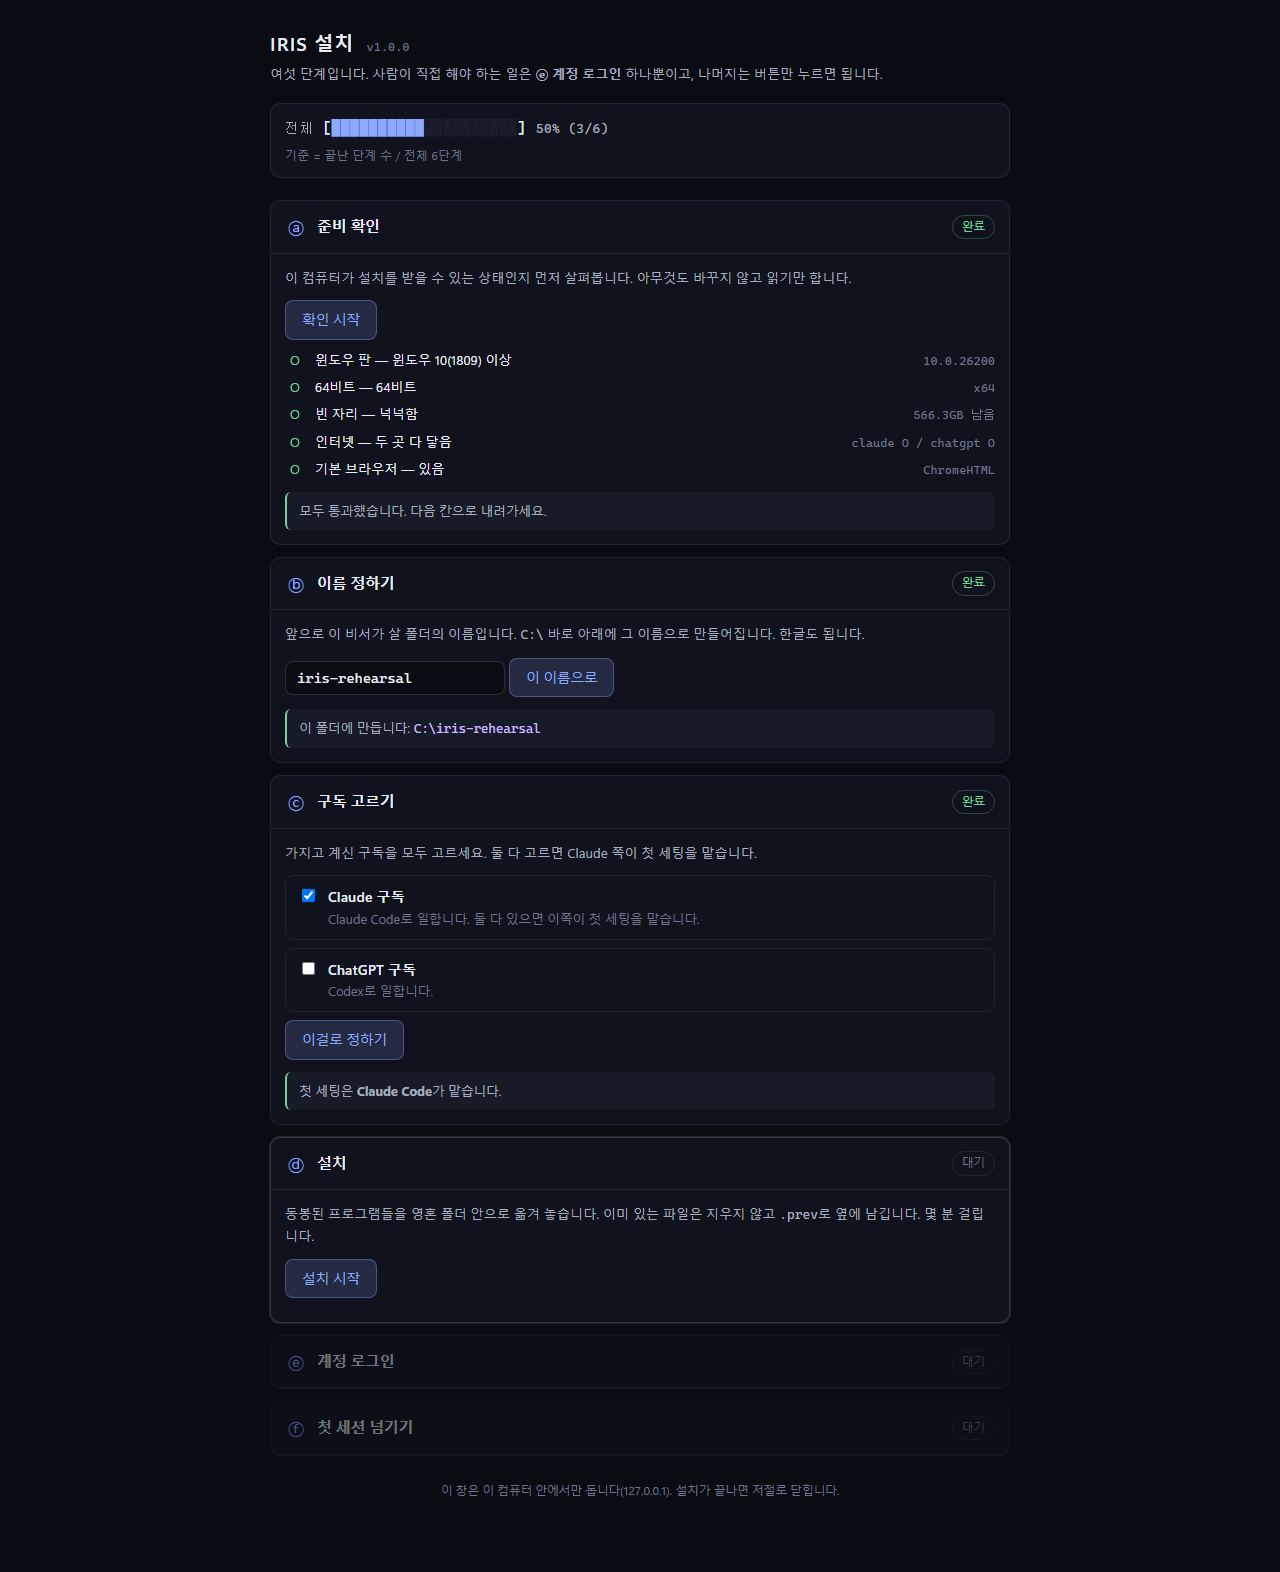
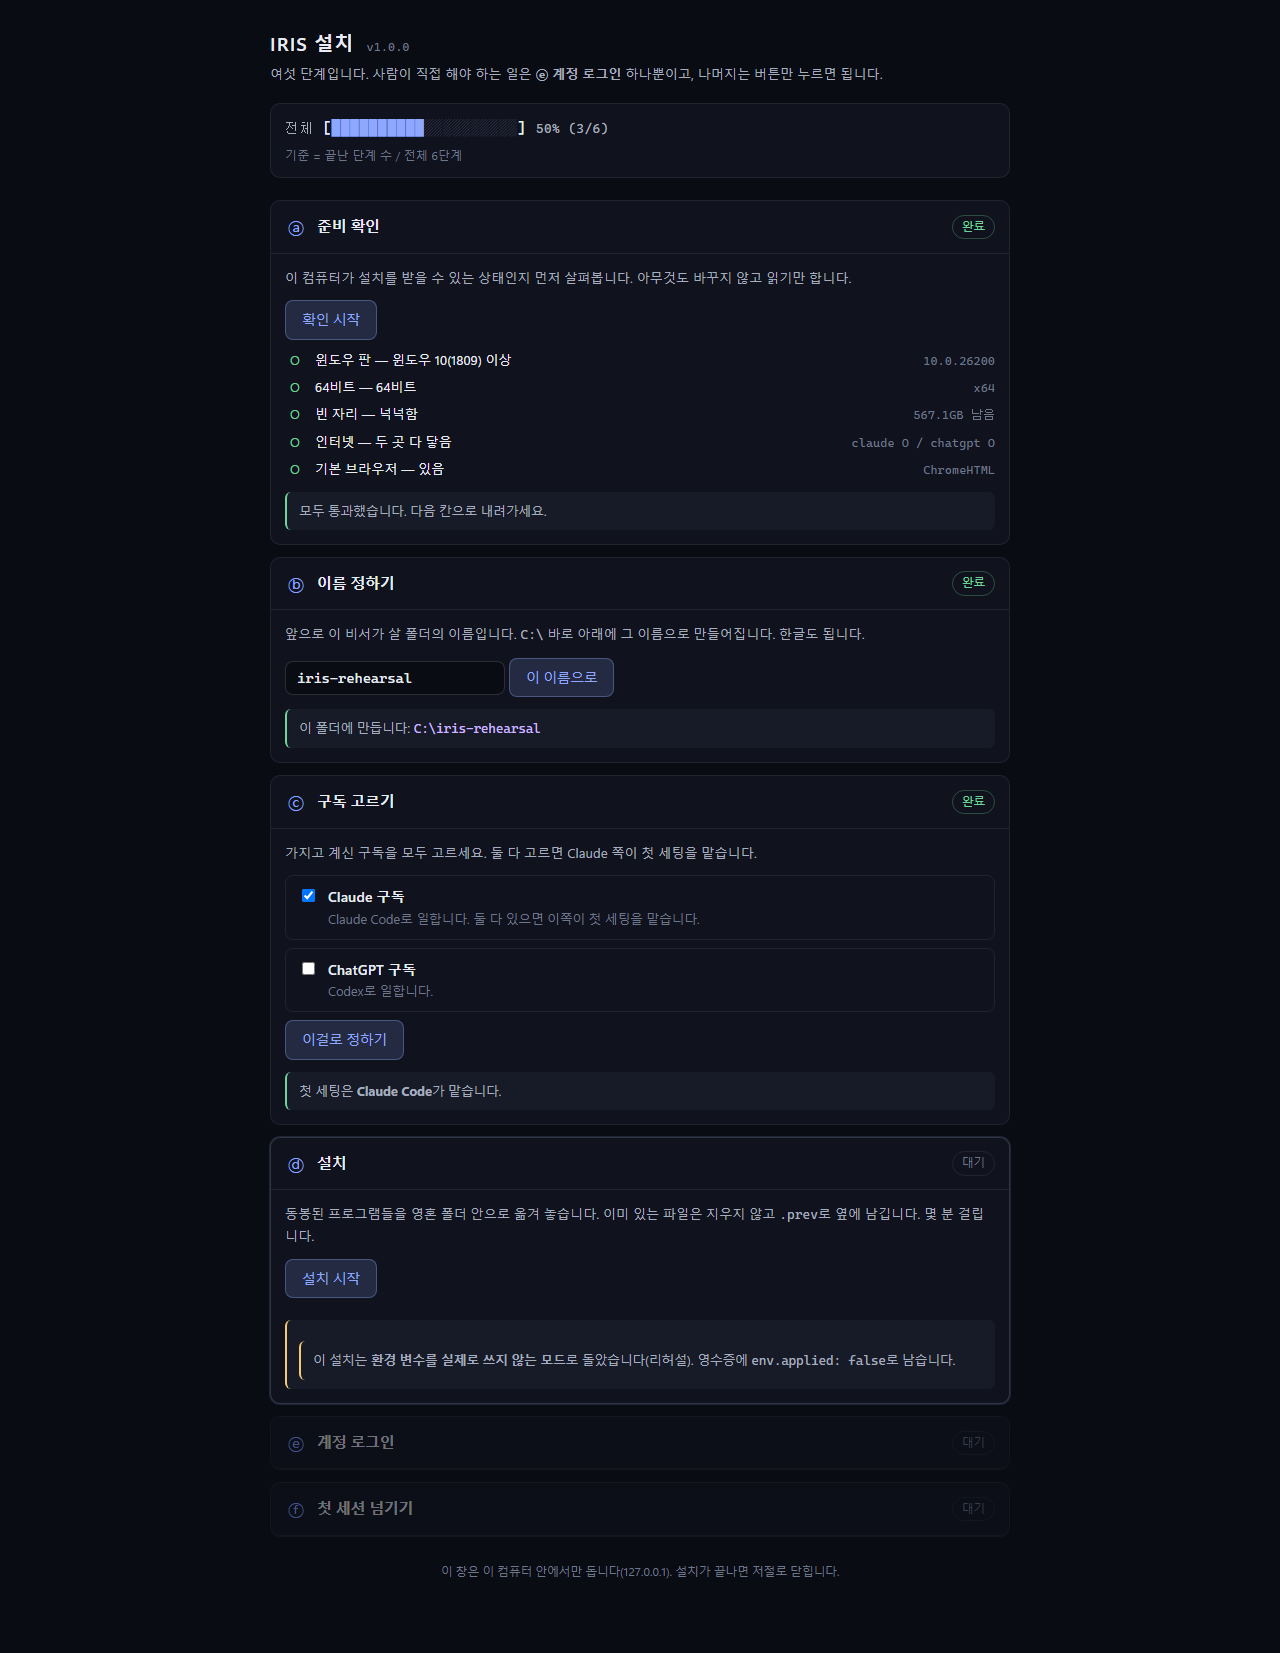
fix(installer): handoff ready check by soul cwd, install retry UI, receipt env.applied, guide edition strictness
Review fix round 1.

1. waitFaceReady counted the daemon's GLOBAL session total, so on a PC already
   running Face a stranger's session satisfied ">= 1" and the handoff was
   stamped done with no session in this soul. It now also reads
   GET /api/sessions and requires one whose cwd normalizes (slashes, trailing
   separator, case -- P02 launch.mjs's normCwd) to the soul root; the 60s
   budget is unchanged and a timeout reports what it saw.
2. index.html: an install failure left the button dead (the terminal error
   event carries a part name), and a refresh read step==='install' as "in
   progress" forever. One installRetry() path now covers every failure, the
   restore path honours state.installError, and an empty event buffer (server
   restarted) falls back to retry instead of a frozen spinner.
3. install() records receipt.env.applied (+ skippedReason) so a --no-user-env
   run can never be mistaken for a real install; the screen says so too.
4. resolveGuide no longer falls back to the other edition -- a missing guide
   fails as where:'first-request', reason guide-missing:<edition>, and Face is
   not launched.
5. <!doctype html> (the page was rendering in quirks mode).
6. Screens retaken with the final markup; the login card is captured
   in-progress and once showing [다시 열기] (simulated through injected status
   functions -- no proxy call, no CLI spawn, no real login).
7. Guarded relayError.reason, clamped the install pct to 0..100, dropped a
   no-op padStart.
[…]

diff --git a/installer/ui/index.html b/installer/ui/index.html
@@ -1,3 +1,4 @@
+<!doctype html>
 <meta charset="utf-8">
 <meta name="viewport" content="width=device-width, initial-scale=1">
 <title>IRIS 설치</title>
@@ -179,7 +180,7 @@ function drawBar() {
   $('bar').innerHTML =
     '<span class="bar-num">전체 </span>[<span class="bar-fill">' + '█'.repeat(filled) + '</span>' +
     '<span class="bar-rest">' + '░'.repeat(BAR_CELLS - filled) + '</span>] ' +
-    '<span class="bar-num">' + String(pct).padStart(3, ' ') + '%  (' + n + '/' + total + ')</span>';
+    '<span class="bar-num">' + pct + '%  (' + n + '/' + total + ')</span>';
 }
 
 function badge(step, text, cls) {
@@ -352,14 +353,28 @@ function renderInstall() {
 }
 
 function installProgressNote(pct) {
-  const filled = Math.floor((pct / 100) * BAR_CELLS);
-  return '<div class="mini">[<span class="bar-fill">' + '█'.repeat(filled) + '</span>' + '░'.repeat(BAR_CELLS - filled) + '] ' + Math.floor(pct) + '%</div>';
+  // pct는 서버가 주는 값이라 방어적으로 0~100으로 가둔다(음수·101이 오면 바가 깨진다).
+  const p = Math.min(100, Math.max(0, Math.floor(Number(pct) || 0)));
+  const filled = Math.floor((p / 100) * BAR_CELLS);
+  return '<div class="mini">[<span class="bar-fill">' + '█'.repeat(filled) + '</span>' + '░'.repeat(BAR_CELLS - filled) + '] ' + p + '%</div>';
+}
+
+// 설치 실패(또는 이어지지 않음)는 막다른 길이 아니다 — 서버는 state.installError만
+// 남기고 다시 POST /api/install 을 받아 준다. 그러니 화면도 반드시 되돌아와야 한다.
+function installRetry(message) {
+  badge('install', '막힘', 'bad');
+  note('install-note', message, 'bad');
+  const b = $('btn-install');
+  b.disabled = false;
+  b.textContent = '다시 시도';
 }
 
 function watchInstall() {
   if (installSource) return;
+  let sawEvent = false;
   installSource = new EventSource('/api/install/events');
   installSource.onmessage = (ev) => {
+    sawEvent = true;
     let e; try { e = JSON.parse(ev.data); } catch { return; }
     if (e.part) {
       partState[e.part] = partState[e.part] || {};
@@ -368,12 +383,16 @@ function watchInstall() {
       partState[e.part].error = e.error || null;
       renderInstall();
     }
-    if (typeof e.pct === 'number' && !e.part) note('install-note', installProgressNote(e.pct));
-    if (e.error && !e.part) {
-      badge('install', '막힘', 'bad');
-      note('install-note', '설치가 멈췄습니다(' + esc(e.error) + '). 이미 있던 것은 그대로 되돌려 두었습니다.', 'bad');
+    if (typeof e.pct === 'number' && !e.part && !e.error) note('install-note', installProgressNote(e.pct));
+    // 실패 이벤트에는 대개 부품 이름이 붙어 온다(install.mjs emitFinal).
+    // 부품 유무와 상관없이 여기서 잡아야 단추가 되살아난다.
+    if (e.error) {
+      installSource.close(); installSource = null;
+      installRetry('설치가 멈췄습니다' + (e.part ? ' — ' + esc(PART_LABEL[e.part] || e.part) : '') +
+        ' (' + esc(e.error) + ').<br>이미 있던 것은 그대로 되돌려 두었습니다. 다시 시도해도 안전합니다.');
+      return;
     }
-    if (e.done && !e.error) {
+    if (e.done) {
       done.install = true;
       badge('install', '완료', 'done');
       note('install-note', installProgressNote(100) + '<div class="note ok">설치가 끝났습니다.</div>');
@@ -381,16 +400,23 @@ function watchInstall() {
       relock();
     }
   };
+  // 서버가 중간에 다시 뜨면 이벤트 버퍼가 비어 있어 아무것도 오지 않는다.
+  // 그대로 두면 "진행중"에서 영원히 멈춘 것처럼 보이므로 되돌릴 길을 준다.
+  setTimeout(() => {
+    if (!sawEvent && installSource) {
+      installSource.close(); installSource = null;
+      installRetry('설치가 이어지지 않았습니다(설치기가 다시 시작된 것 같습니다). 다시 시도해 주세요.');
+    }
+  }, 5000);
 }
 
 $('btn-install').onclick = async () => {
   $('btn-install').disabled = true;
   badge('install', '진행중', 'run');
+  note('install-note', '');
   const { status, body } = await api('/api/install', {});
   if (status >= 400) {
-    badge('install', '막힘', 'bad');
-    note('install-note', '시작하지 못했습니다(' + esc(body.reason || status) + ').', 'bad');
-    $('btn-install').disabled = false;
+    installRetry('시작하지 못했습니다(' + esc(body.reason || status) + ').');
     return;
   }
   watchInstall();
@@ -451,7 +477,11 @@ function pollLogin() {
           re.appendChild(b);
         } else if (!s.reopenAvailable) { re.innerHTML = ''; }
       }
-      if (s.relayError) note('login-note', esc(PROVIDER_LABEL[p]) + ' 등록이 아직 끝나지 않았습니다(' + esc(s.relayError.reason) + '). 계속 다시 시도합니다.', 'bad');
+      // reason이 없는 모양으로 와도 "undefined"를 사람에게 보이지 않게 한다.
+      if (s.relayError) {
+        const why = s.relayError.reason || s.relayError.detail || '까닭을 알 수 없음';
+        note('login-note', PROVIDER_LABEL[p] + ' 등록이 아직 끝나지 않았습니다(' + esc(why) + '). 계속 다시 시도합니다.', 'bad');
+      }
     }
     if (body.step === 'handoff' || body.step === 'done') {
       clearInterval(loginTimer); loginTimer = null;
@@ -482,7 +512,8 @@ $('btn-handoff').onclick = async () => {
     const { body } = await api('/api/handoff', {});
     if (!body.ok) {
       badge('handoff', '막힘', 'bad');
-      note('handoff-note', (HANDOFF_WHERE[body.where] || body.where) + ' 실패했습니다.<br>' + esc(body.detail || '') +
+      note('handoff-note', (HANDOFF_WHERE[body.where] || body.where) + ' 실패했습니다' +
+        (body.reason ? ' (' + esc(body.reason) + ')' : '') + '.<br>' + esc(body.detail || '') +
         '<br>기록: <span class="path">' + esc(body.log || '') + '</span>', 'bad');
       $('btn-handoff').disabled = false;
       return;
@@ -535,13 +566,30 @@ async function restore() {
     renderInstall();
   }
 
+  // 레지스트리를 건드리지 않고 돌린 설치(--no-user-env)라는 사실은 화면에도 남긴다.
+  const envNotice = st.userEnvSkipped
+    ? '<div class="note">이 설치는 <b>환경 변수를 실제로 쓰지 않는 모드</b>로 돌았습니다(리허설). 영수증에 <code>env.applied: false</code>로 남습니다.</div>'
+    : '';
+
   const beyondInstall = st.step === 'login' || st.step === 'handoff' || st.step === 'done';
   if (beyondInstall) {
     done.install = true;
     badge('install', '완료', 'done');
-    note('install-note', installProgressNote(100) + '<div class="note ok">설치가 끝났습니다.</div>');
+    note('install-note', installProgressNote(100) + '<div class="note ok">설치가 끝났습니다.</div>' + envNotice);
     $('btn-install').disabled = true;
-  } else if (st.step === 'install') { badge('install', '진행중', 'run'); watchInstall(); $('btn-install').disabled = true; }
+  } else if (st.step === 'install') {
+    // 서버는 실패를 state.installError에 남기고 재시도를 받아 준다.
+    // 그 값을 무시하면 새로고침한 화면이 영원히 "진행중"에 갇힌다.
+    if (st.installError) {
+      installRetry('지난번 설치가 멈췄습니다 (' + esc(st.installError) + ').<br>이미 있던 것은 그대로 되돌려 두었습니다. 다시 시도해도 안전합니다.');
+    } else {
+      badge('install', '진행중', 'run');
+      $('btn-install').disabled = true;
+      watchInstall(); // 5초 안에 아무 이벤트도 안 오면 watchInstall이 재시도로 되돌린다
+    }
+  } else if (envNotice) {
+    note('install-note', envNotice);
+  }
 
   if (st.step === 'handoff' || st.step === 'done') {
     done.login = true;
